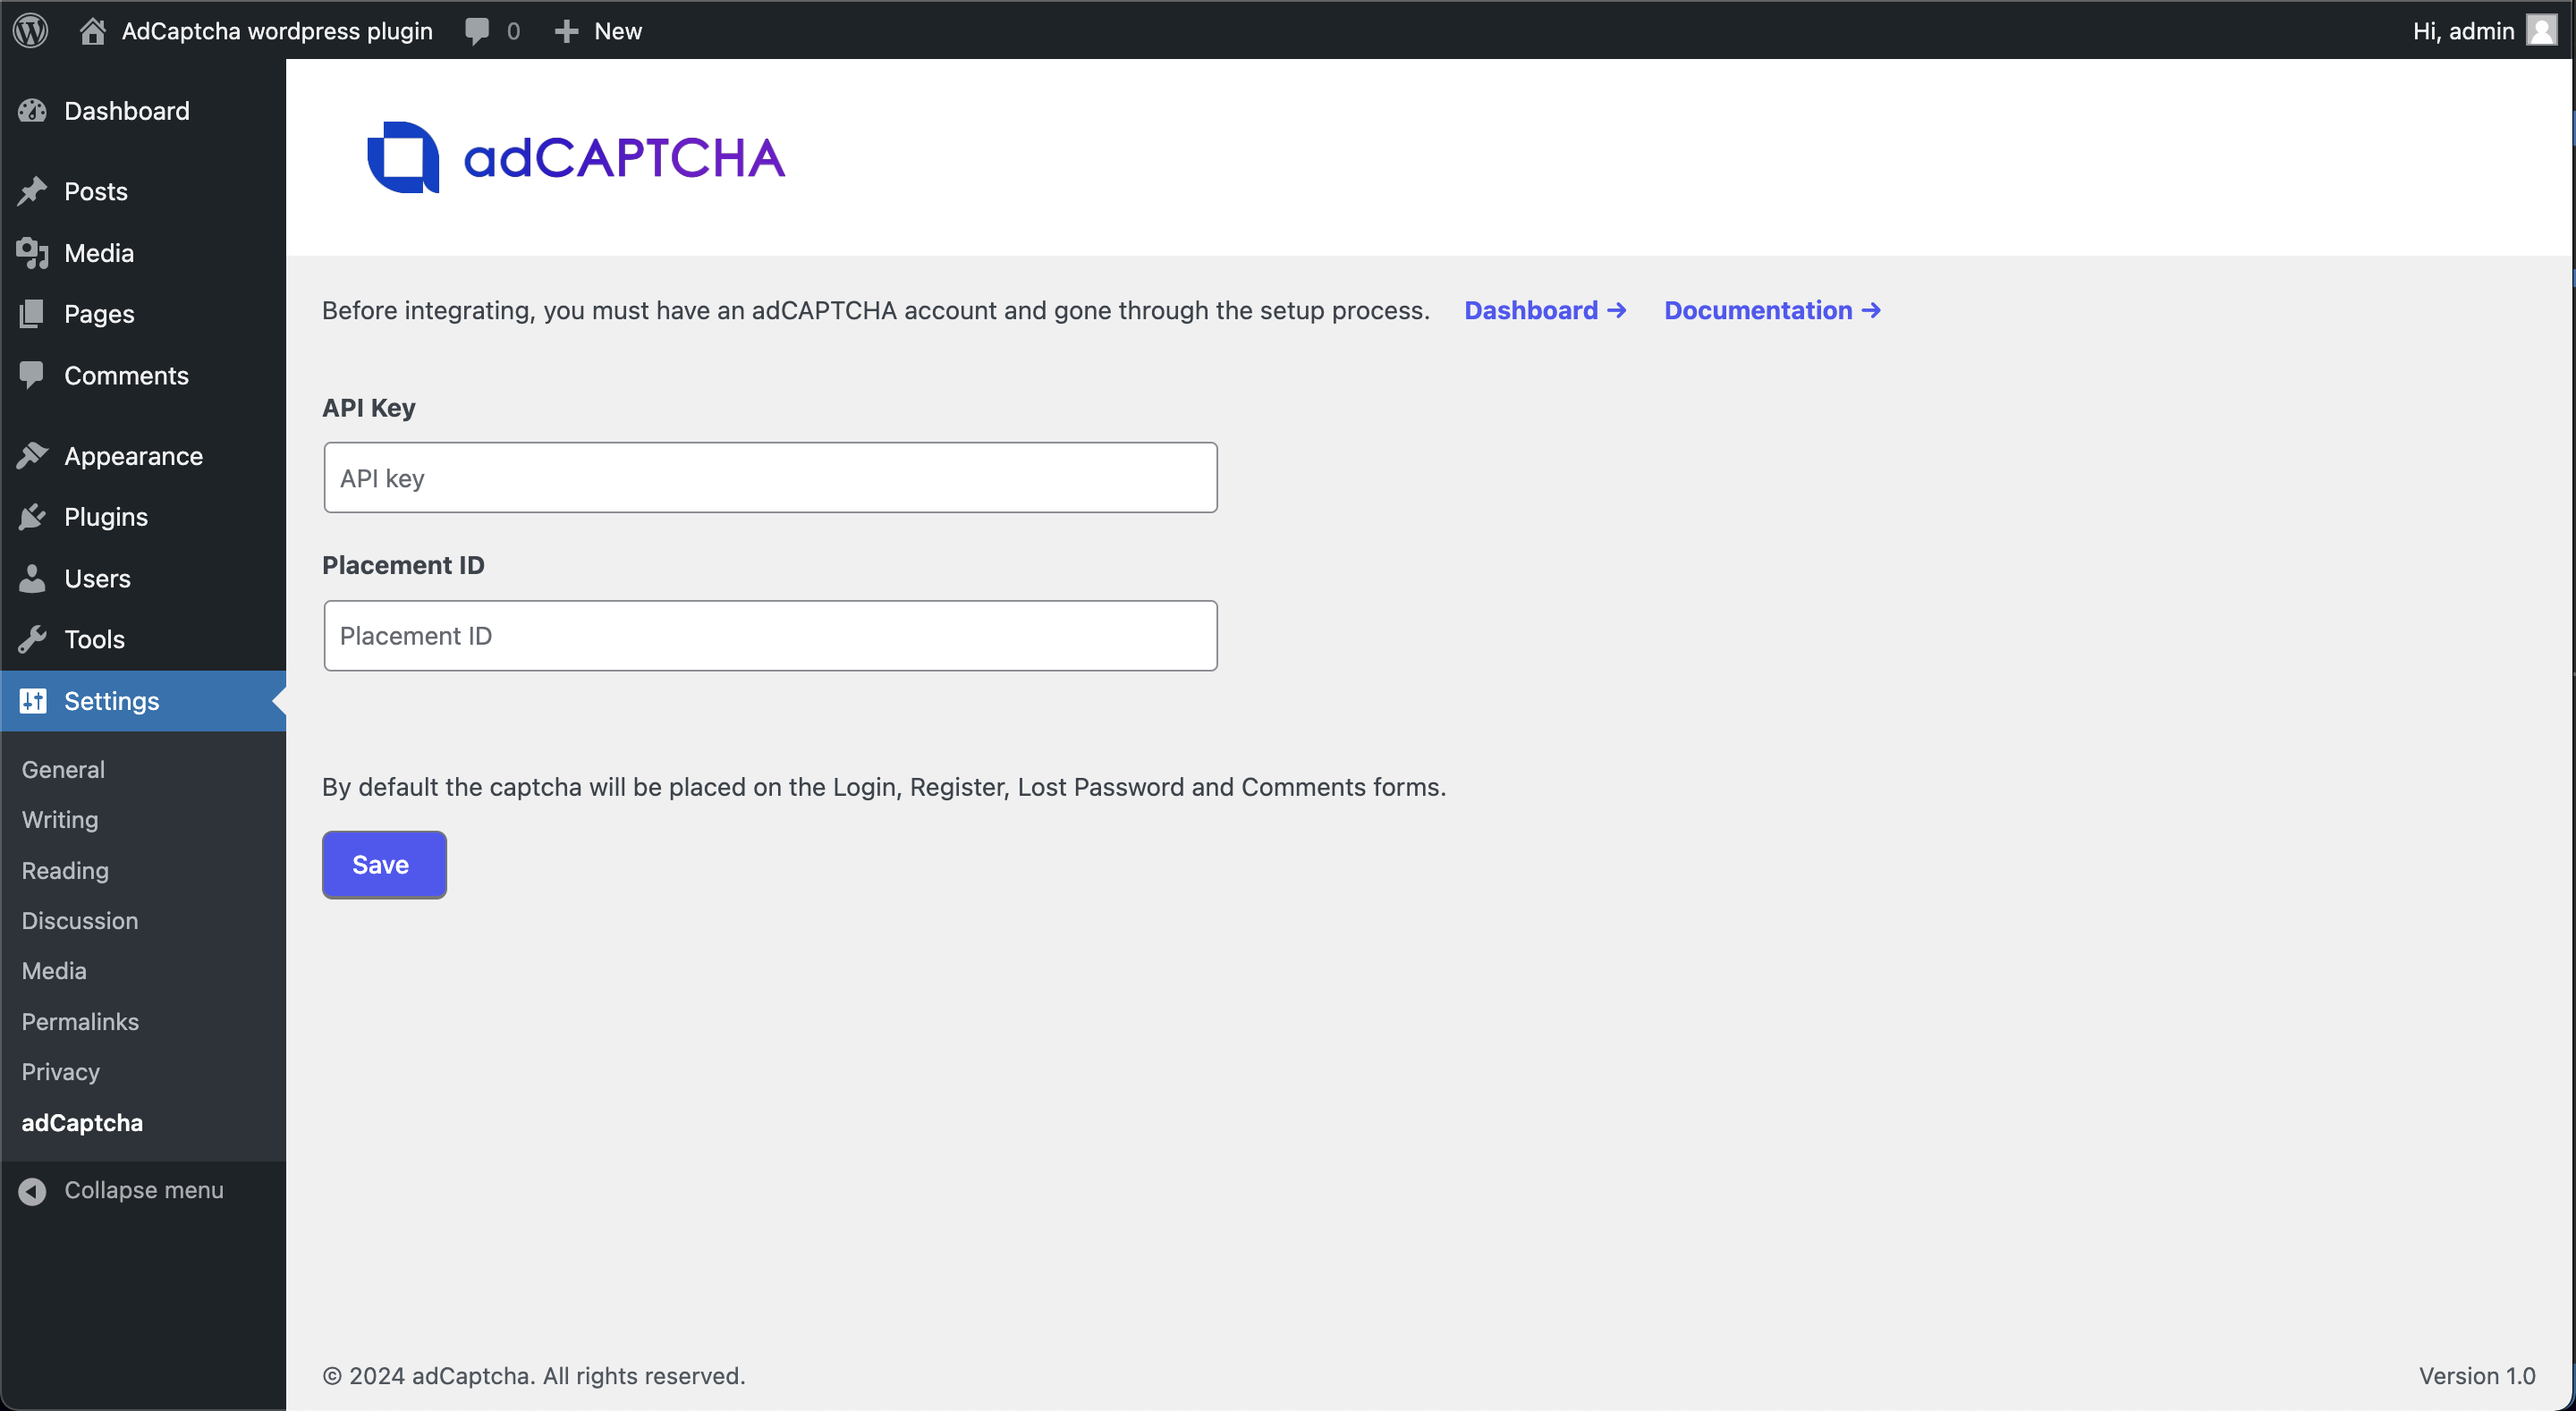
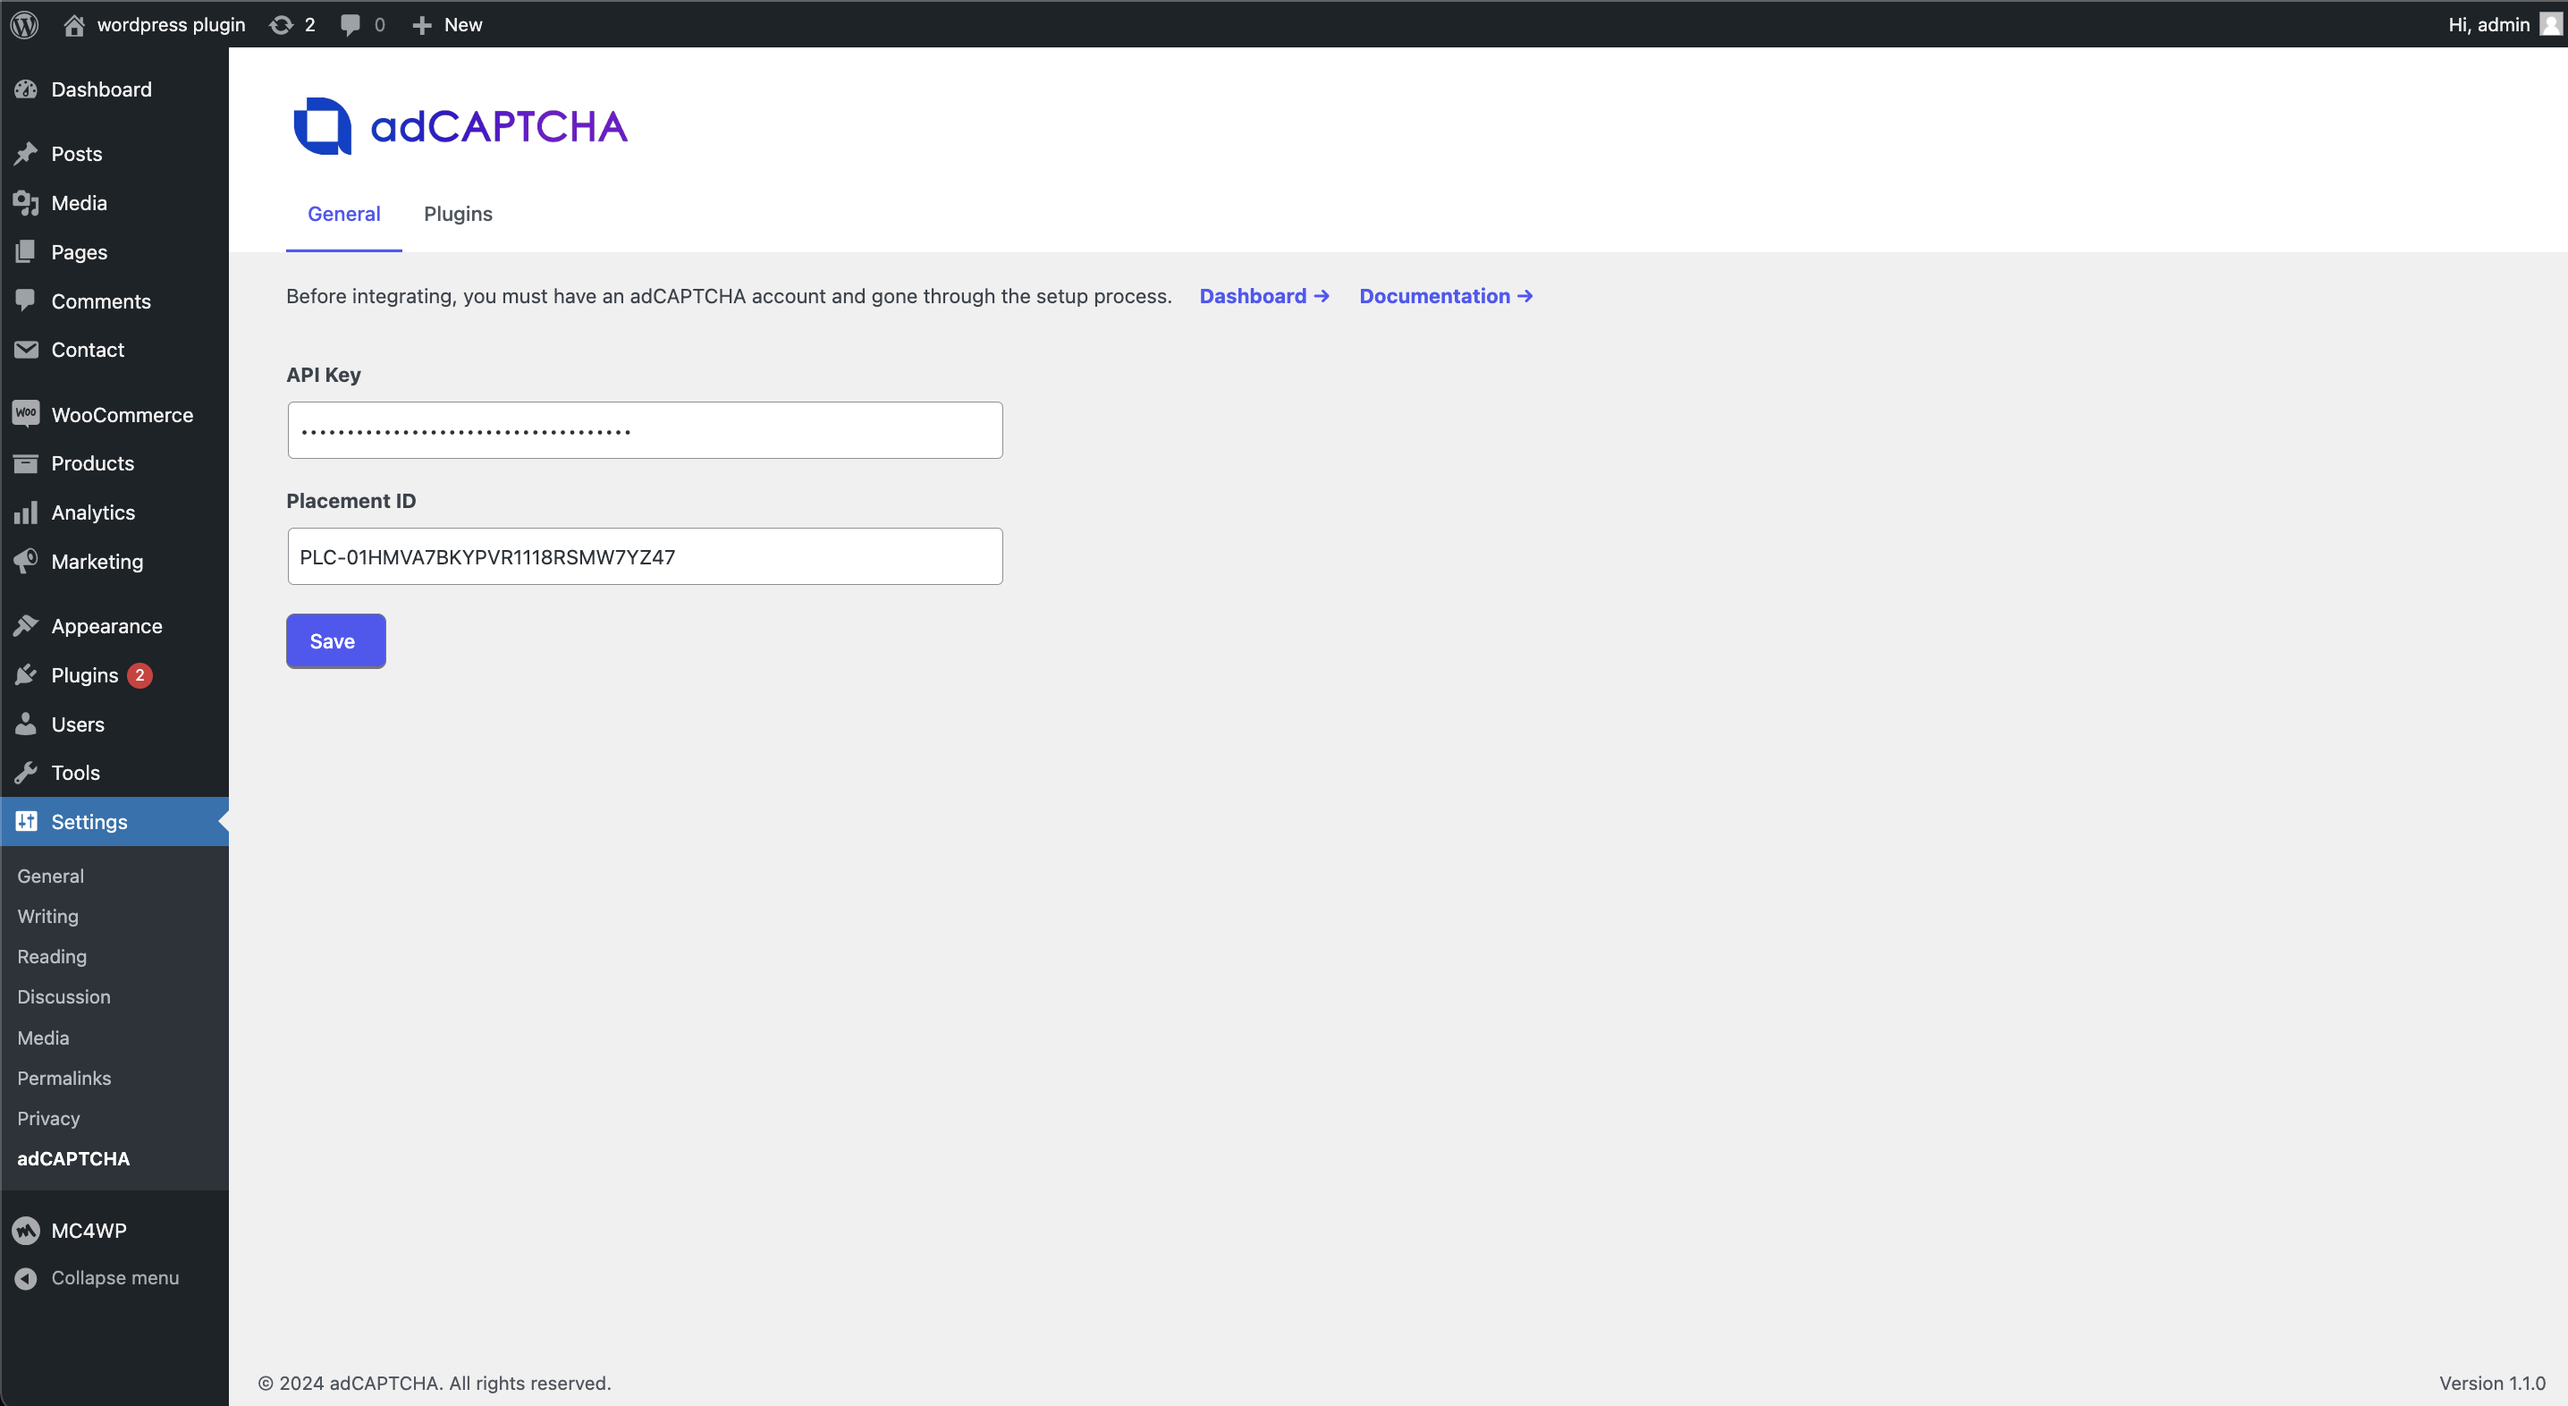
Prepare for 1.1.0 release

Changed region(s): [[0.0, 0.0, 1.0, 1.0], [0.6508, 0.2182, 0.7127, 0.2494]]

diff --git a/adcaptcha.php b/adcaptcha.php
@@ -2,7 +2,7 @@
 /**
  * Plugin Name: adCAPTCHA for WordPress
  * Description: Secure your site. Elevate your brand. Boost Ad Revenue.
- * Version: 1.0.3
+ * Version: 1.1.0
  * Requires at least: 6.4.2
  * Requires PHP: 7.4
  * Author: adCAPTCHA

diff --git a/src/Settings/Settings.php b/src/Settings/Settings.php
@@ -70,6 +70,6 @@ class Settings {
     }
 
     public function change_admin_footer_version() {
-        return 'Version 1.0';
+        return 'Version 1.1.0';
     }
 }
